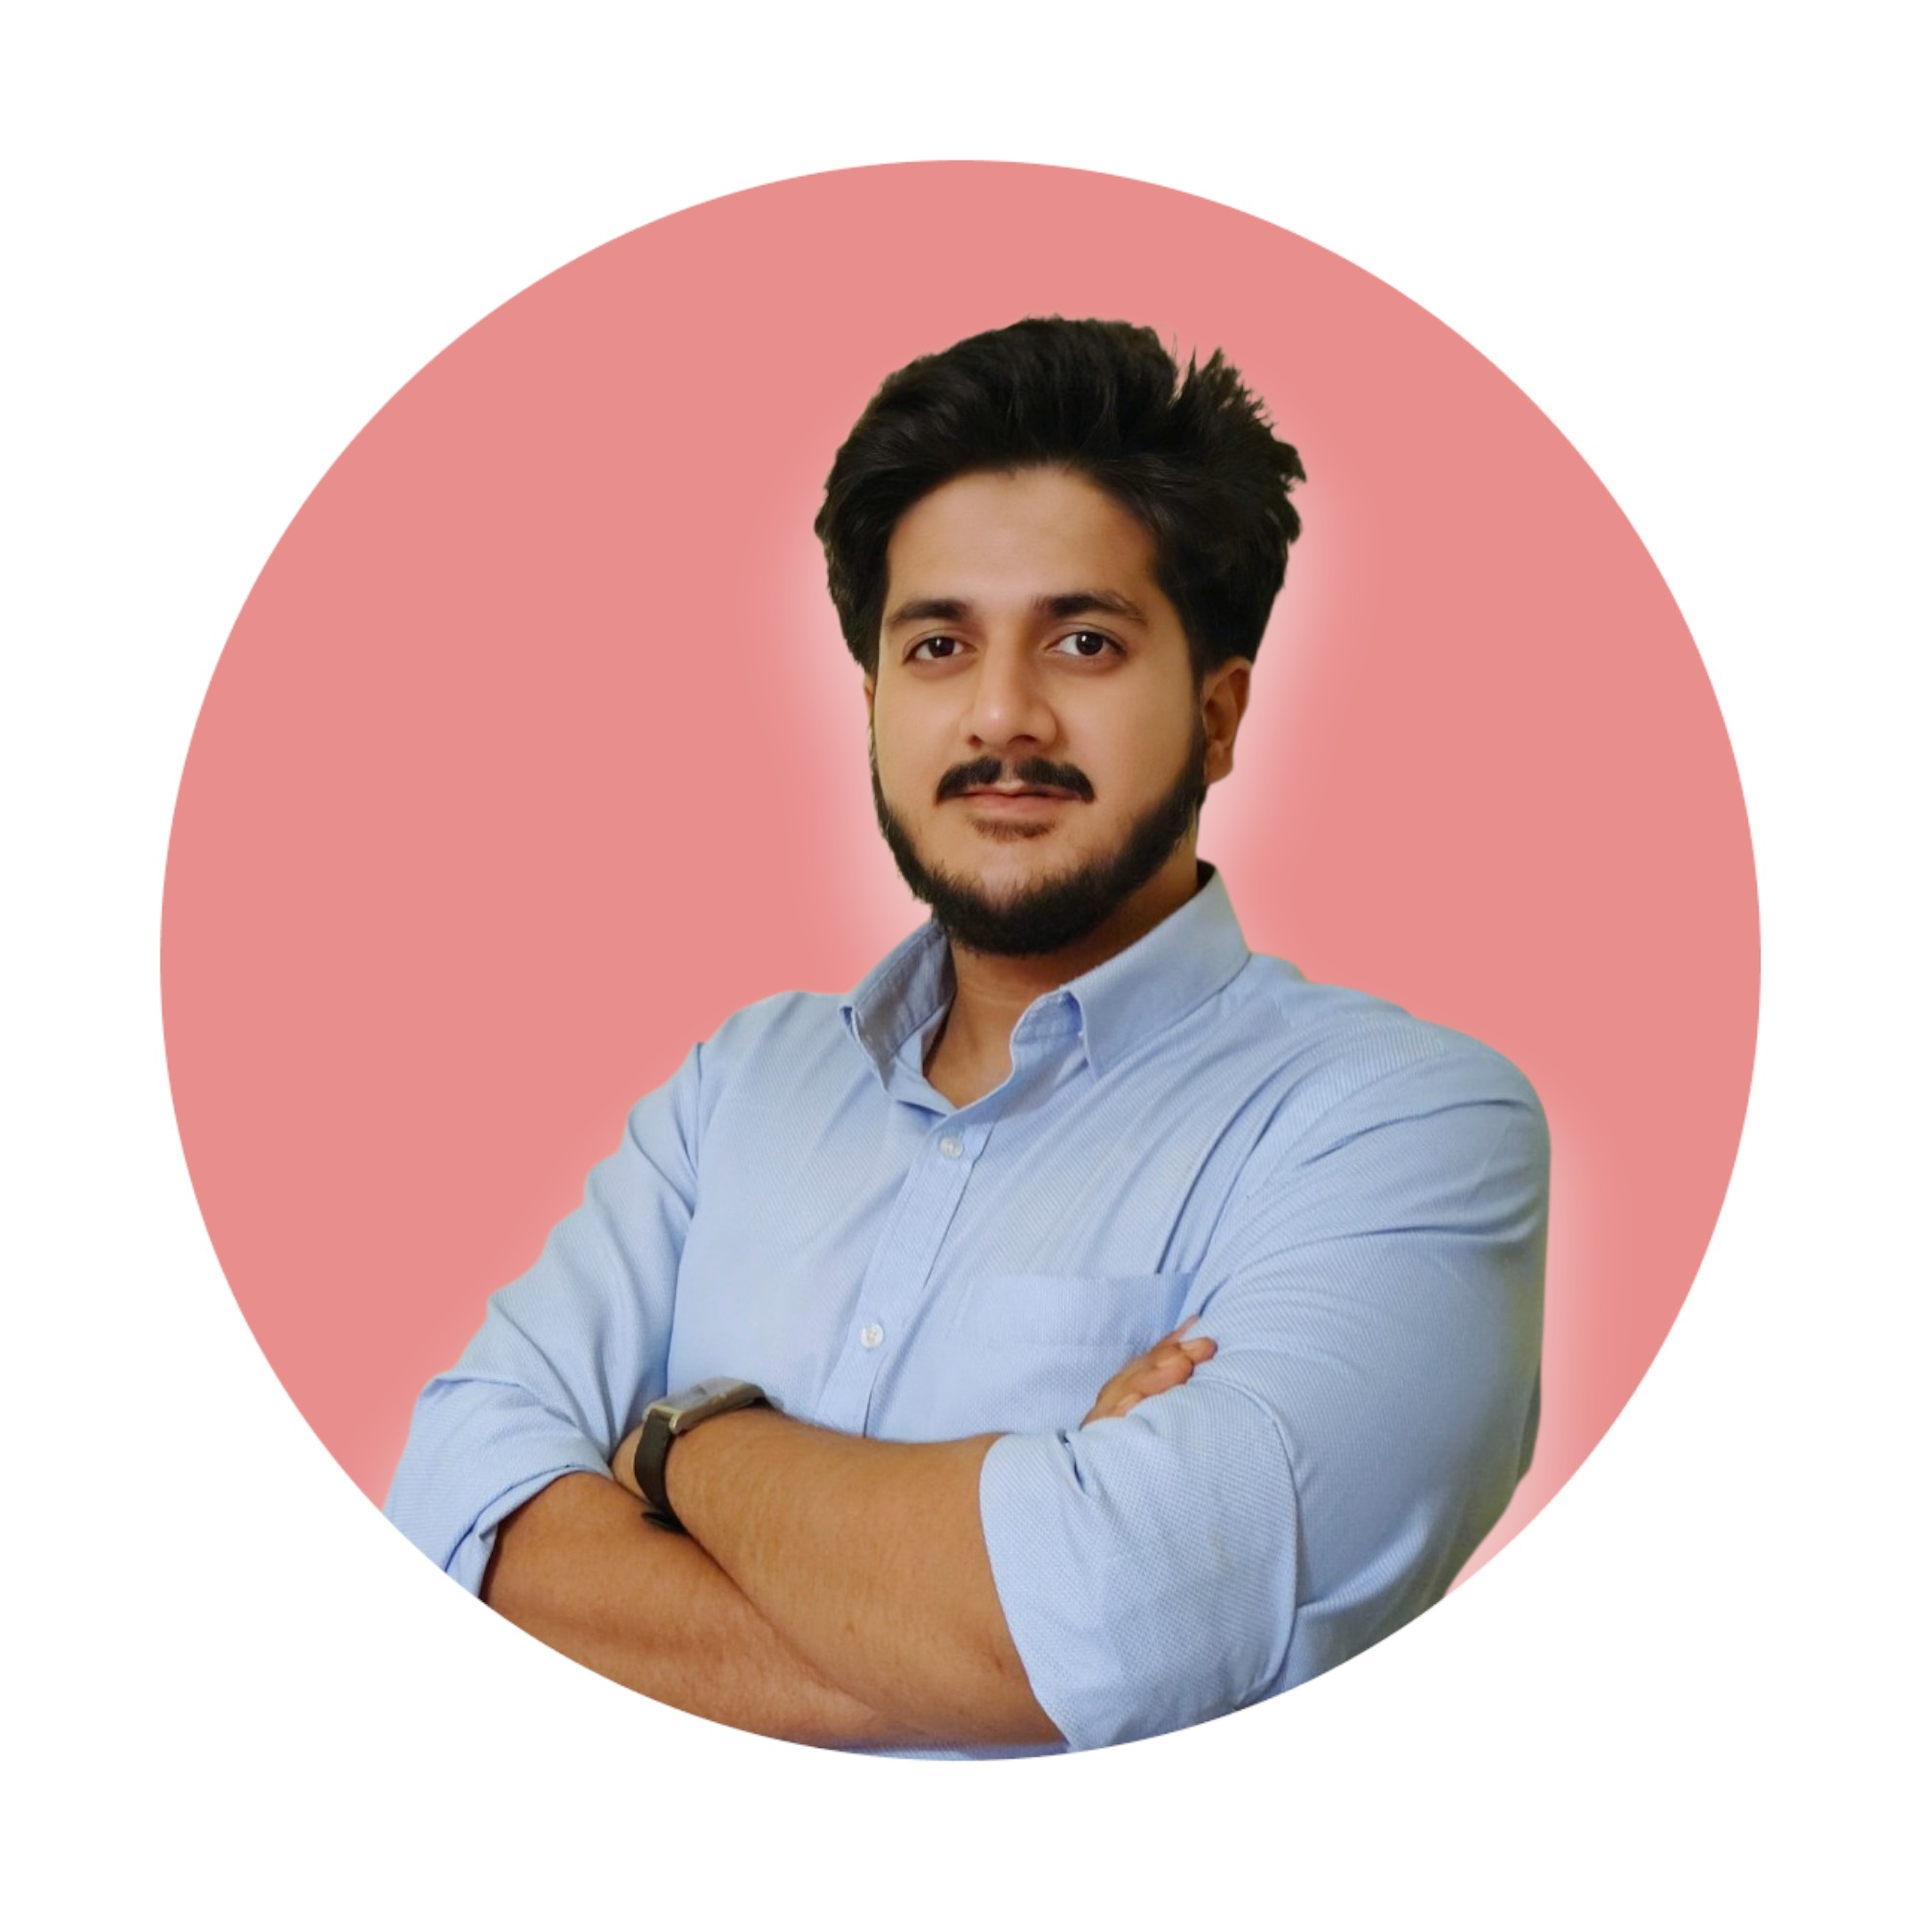
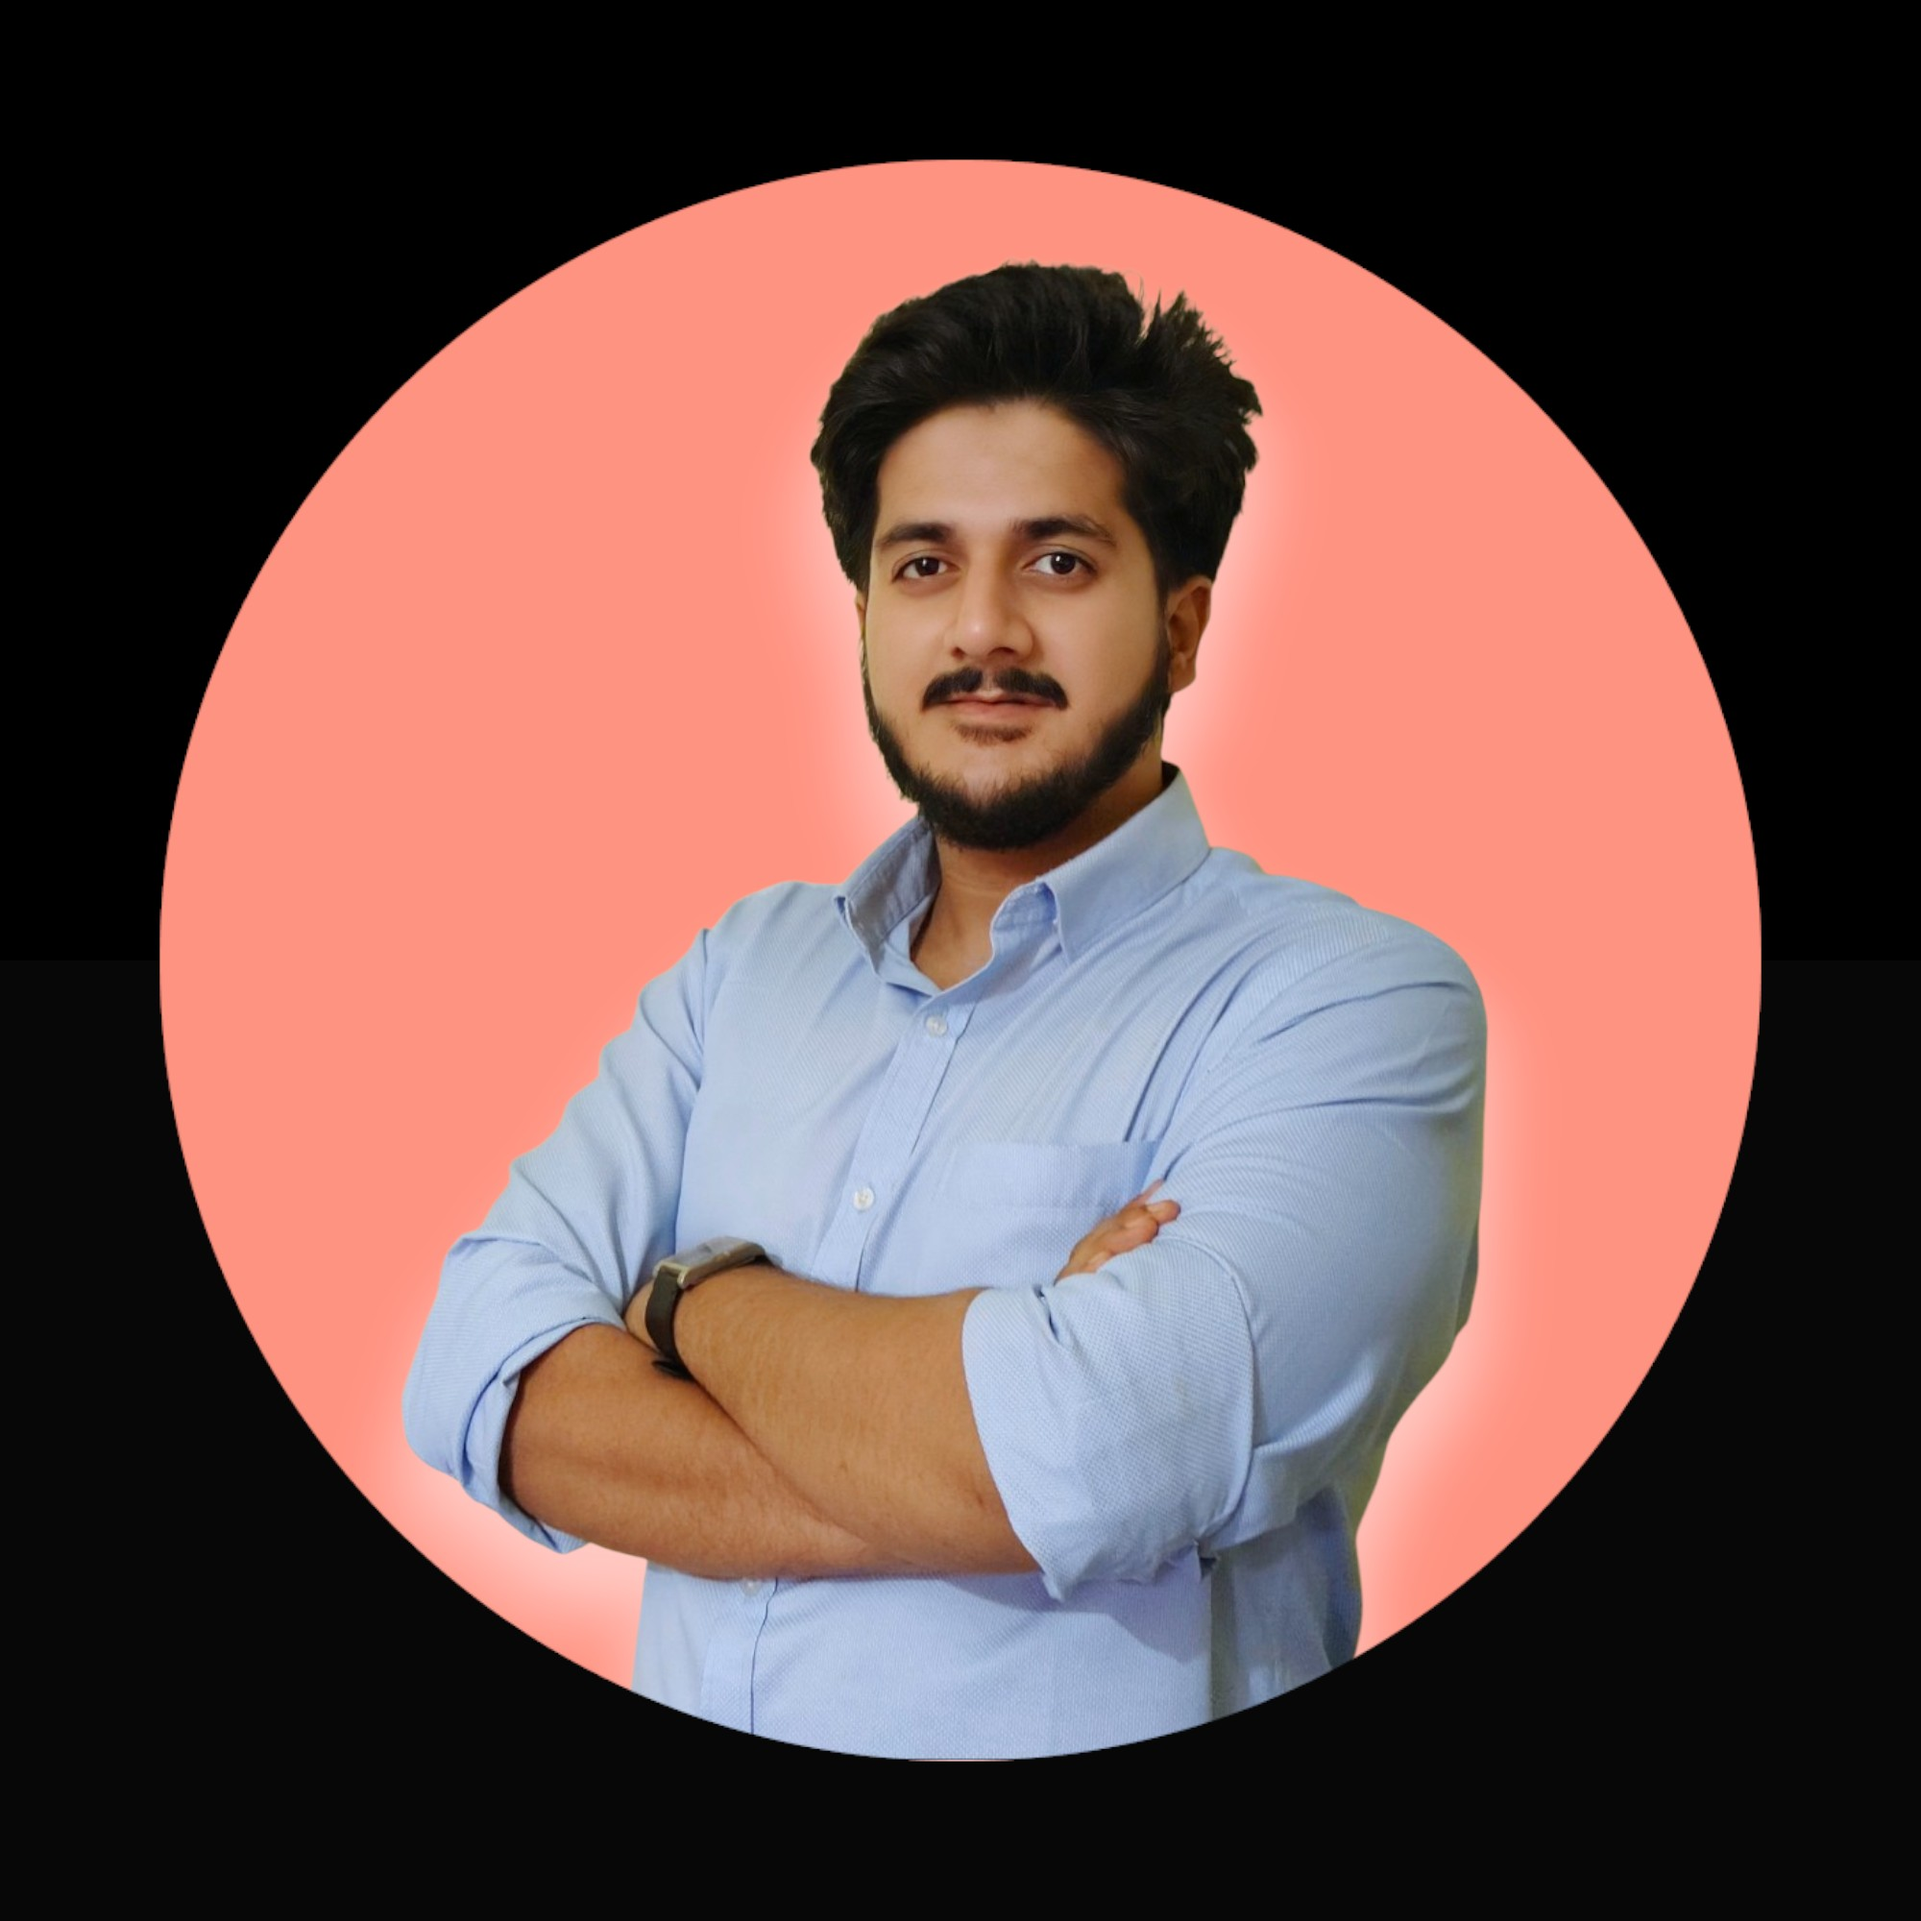
Intial Commit

diff --git a/index.html b/index.html
@@ -141,7 +141,7 @@
 	      	<div class="overlay"></div>
 	         <div class="container">
 	          <div class="row d-md-flex no-gutters slider-text align-items-end justify-content-end" data-scrollax-parent="true">
-	          	<div class="one-third js-fullheight order-md-last img" style="background-image:url(images/Bg_1.png);">
+	          	<div class="one-third js-fullheight order-md-last img">
 	          	 <div class="overlay"></div>
 	          	</div>
 		          <div class="one-forth d-flex  align-items-center ftco-animate" data-scrollax=" properties: { translateY: '70%' }">
@@ -214,7 +214,7 @@
 								<div class="row">
 									<div class="col-sm-6 col-md-5">
 									  <div class="about-img">
-										<img src="images/about-me.jpg" class="img-fluid rounded b-shadow-a" alt="">
+										<img src="images/profile_bg.jpg" class="img-fluid rounded b-shadow-a" alt="">
 									  </div>
 									</div>
 									<!-- Details next to profile image -->

diff --git a/css/style.css b/css/style.css
@@ -9707,18 +9707,18 @@ textarea.form-control {
     stroke-dashoffset: -136px; } }
 
 /* Additional change */
-.one-third {
+/* .one-third {
   background-size: contain;
   background-repeat: no-repeat;
   background-position: top center;
-  height: 100vh;     /* Prevent tiling */
-  width: 100%;       /* Full width */
+  height: 100vh;    
+  width: 100%;       
 }
 
 .js-fullheight {
-  height: 100vh;                     /* Full viewport height */
-  min-height: 1000px;                 /* Fallback for very small screens */
-}
+  height: 100vh;                     
+  min-height: 1000px;                 
+} */
 
 /* Make sure it stays responsive on smaller devices */
 @media (max-width: 768px) {
@@ -9738,4 +9738,3 @@ textarea.form-control {
   border: 1px solid #0056b3 !important;
   color: #fff !important;
 }
-/* ...existing code... */
